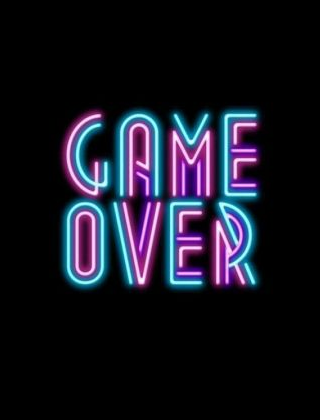
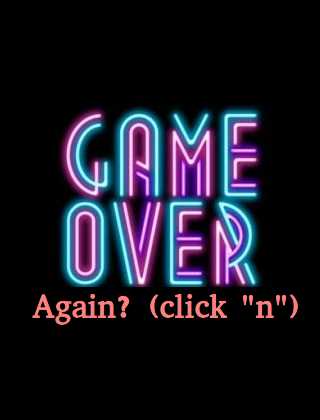
v1.2 Add pause and restart

Changed region(s): [[0.0938, 0.681, 0.7188, 0.7738], [0.75, 0.681, 0.9375, 0.7738]]

diff --git a/src/ru/Ag/GameField.java b/src/ru/Ag/GameField.java
@@ -26,6 +26,7 @@ public class GameField extends JPanel implements ActionListener{
     private boolean up = false;
     private boolean down = false;
     private boolean inGame = true;
+    private boolean run = true;
     private int score = 0;
 
     public GameField() {
@@ -45,6 +46,21 @@ public class GameField extends JPanel implements ActionListener{
         timer = new Timer(250,this);
         timer.start();
         createApple();
+    }
+
+    public void restart() {
+        inGame = true;
+        dots = 3;
+        for (int i = 0; i < dots; i++) {
+            x[i] = 48 - i * DOT_SIZE;
+            y[i] = 48;
+        }
+        timer.start();
+        createApple();
+        right = true;
+        left = false;
+        up = false;
+        down = false;
     }
 
     public void createApple() {
@@ -79,9 +95,9 @@ public class GameField extends JPanel implements ActionListener{
         } else {
             setBackground(Color.BLACK);
             g.drawImage(gameOver, 5, 0, this);
-            String string2 = "You collected: " + score + " ap";
+            String string1 = "You collected: " + score + " ap";
             g.setColor(Color.RED);
-            g.drawString(string2, 100, 50);
+            g.drawString(string1, 100, 50);
         }
     }
 
@@ -160,7 +176,16 @@ public class GameField extends JPanel implements ActionListener{
                 up = false;
                 right = false;
                 left = false;
+            } else if (key == KeyEvent.VK_N) {
+                restart();
+            } else if (key == KeyEvent.VK_P && run) {
+                timer.stop();
+                run = false;
+            } else if (key == KeyEvent.VK_P && !run) {
+                timer.start();
+                run = true;
             }
+
         }
     }
 }

diff --git a/README.md b/README.md
@@ -2,4 +2,8 @@
 
 A simple canonical snake game.
 
+###Reference: 
+"n" to start over
+"p" - pause
+
 <img align="center" src="./img/example.png">
